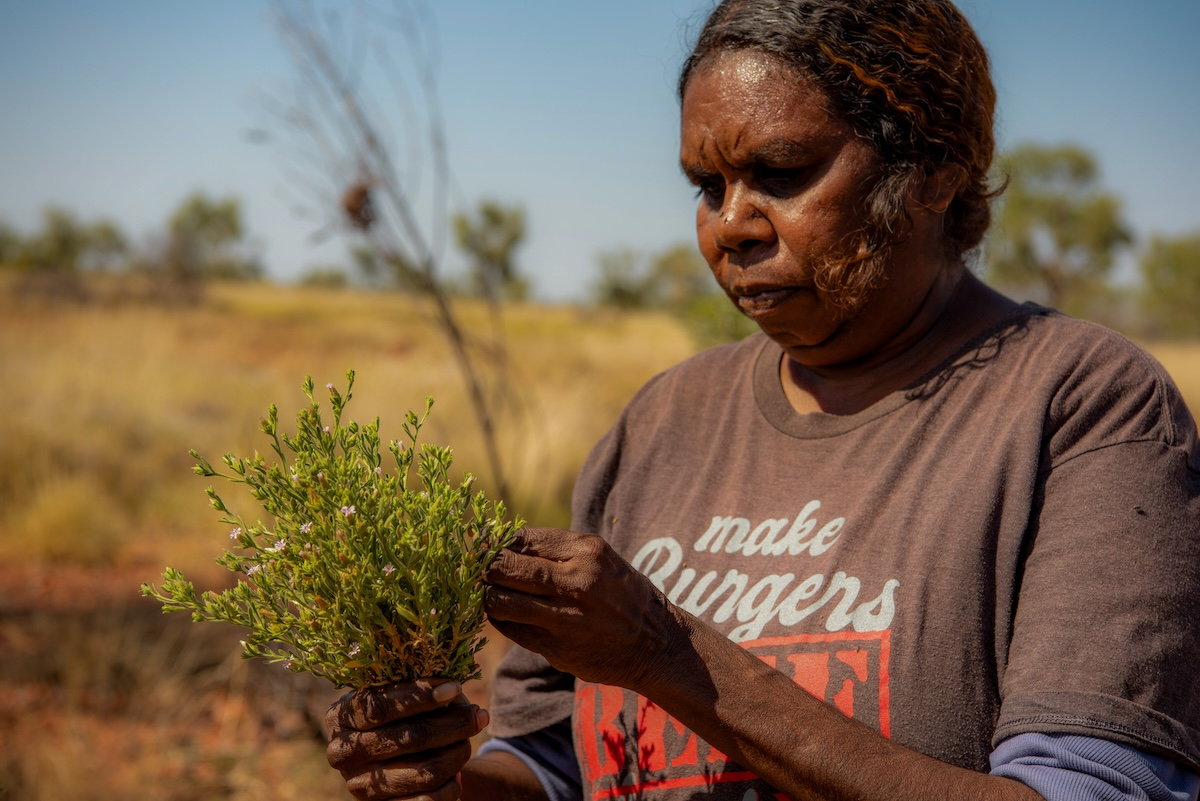
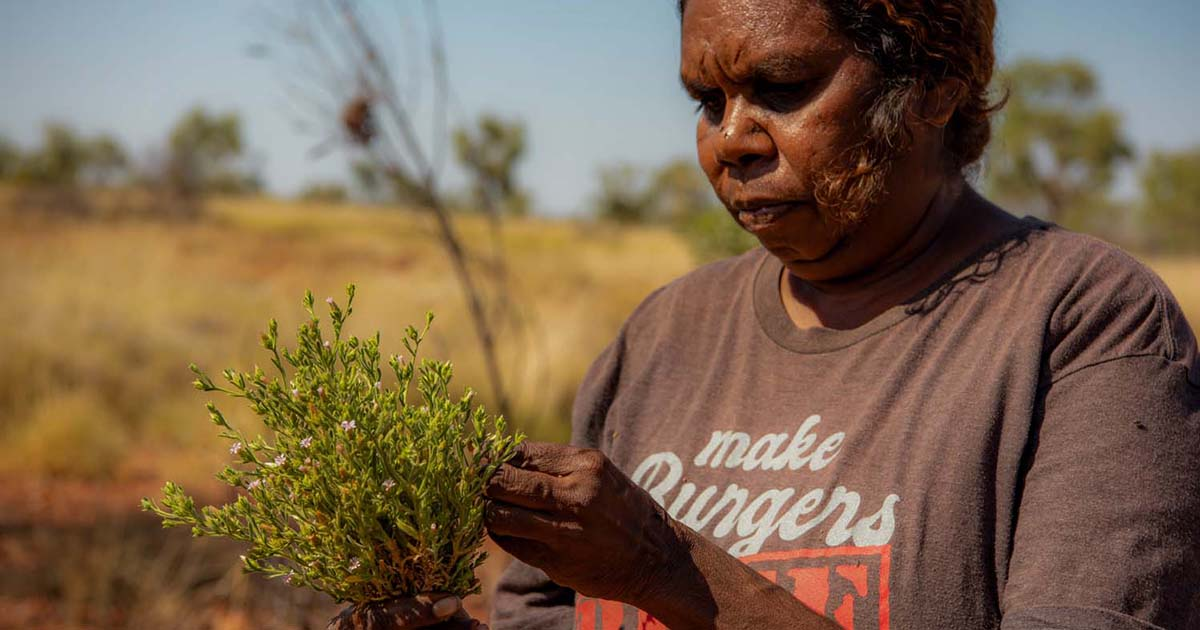
compress key images and standardise og:image tag paths

diff --git a/test_data/gurindji_bush_tucker/data/index.html b/test_data/gurindji_bush_tucker/data/index.html
@@ -5,8 +5,8 @@
     <meta property="og:type" content="website" />
     <meta property="og:title" content="Bush Tucker" />
     <meta property="og:description" content="Gurindji bush tucker" />
-    <meta property="og:image" content="http://bush-tucker.ngumpin.org.au/files/images/07_Kinyjirrka_IMG_6296_PS.jpg" />
-    <meta property="og:image:secure_url" content="https://bush-tucker.ngumpin.org.au/files/images/07_Kinyjirrka_IMG_6296_PS.jpg" />
+    <meta property="og:image" content="http://bush-tucker.ngumpin.org.au/files/keyimage.jpg" />
+    <meta property="og:image:secure_url" content="https://bush-tucker.ngumpin.org.au/files/keyimage.jpg" />
     <meta property="og:image:width" content="1200" />
     <meta property="og:image:height" content="630" />
     <meta http-equiv="refresh" content="0;url=ro-crate-preview.html" />

diff --git a/test_data/gurindji_bush_tucker/data/ro-crate-preview.html b/test_data/gurindji_bush_tucker/data/ro-crate-preview.html
@@ -5,8 +5,8 @@
     <meta property="og:type" content="website" />
     <meta property="og:title" content="Bush Tucker" />
     <meta property="og:description" content="Gurindji bush tucker" />
-    <meta property="og:image" content="http://bush-tucker.ngumpin.org.au/files/images/07_Kinyjirrka_IMG_6296_PS.jpg" />
-    <meta property="og:image:secure_url" content="https://bush-tucker.ngumpin.org.au/files/images/07_Kinyjirrka_IMG_6296_PS.jpg" />
+    <meta property="og:image" content="http://bush-tucker.ngumpin.org.au/files/keyimage.jpg" />
+    <meta property="og:image:secure_url" content="https://bush-tucker.ngumpin.org.au/files/keyimage.jpg" />
     <meta property="og:image:width" content="1200" />
     <meta property="og:image:height" content="630" />
     <meta charset="utf-8">

diff --git a/test_data/gurindji_jurlaka/data/index.html b/test_data/gurindji_jurlaka/data/index.html
@@ -5,8 +5,8 @@
     <meta property="og:type" content="website" />
     <meta property="og:title" content="Jurlaka" />
     <meta property="og:description" content="Gurindji birds - Jurlaka" />
-    <meta property="og:image" content="http://jurlaka.ngumpin.org.au/files/images/Jamut_BD.jpg" />
-    <meta property="og:image:secure_url" content="https://jurlaka.ngumpin.org.au/files/images/Jamut_BD.jpg" />
+    <meta property="og:image" content="http://jurlaka.ngumpin.org.au/files/keyimage.jpg" />
+    <meta property="og:image:secure_url" content="https://jurlaka.ngumpin.org.au/files/keyimage.jpg" />
     <meta property="og:image:width" content="1200" />
     <meta property="og:image:height" content="630" />
     <meta http-equiv="refresh" content="0;url=ro-crate-preview.html" />

diff --git a/test_data/gurindji_yawu/data/index.html b/test_data/gurindji_yawu/data/index.html
@@ -5,8 +5,8 @@
     <meta property="og:type" content="website" />
     <meta property="og:title" content="Yawu" />
     <meta property="og:description" content="Gurindji fish - Yawu" />
-    <meta property="og:image" content="http://yawu.ngumpin.org.au/files/images/manyirrkila_DM.jpg" />
-    <meta property="og:image:secure_url" content="https://yawu.ngumpin.org.au/files/images/manyirrkila_DM.jpg" />
+    <meta property="og:image" content="http://yawu.ngumpin.org.au/files/keyimage.jpg" />
+    <meta property="og:image:secure_url" content="https://yawu.ngumpin.org.au/files/keyimage.jpg" />
     <meta property="og:image:width" content="1200" />
     <meta property="og:image:height" content="630" />
     <meta http-equiv="refresh" content="0;url=ro-crate-preview.html" />

diff --git a/test_data/gurindji_jurlaka/data/ro-crate-preview.html b/test_data/gurindji_jurlaka/data/ro-crate-preview.html
@@ -5,8 +5,8 @@
     <meta property="og:type" content="website" />
     <meta property="og:title" content="Jurlaka" />
     <meta property="og:description" content="Gurindji birds - Jurlaka" />
-    <meta property="og:image" content="http://jurlaka.ngumpin.org.au/files/images/Jamut_BD.jpg" />
-    <meta property="og:image:secure_url" content="https://jurlaka.ngumpin.org.au/files/images/Jamut_BD.jpg" />
+    <meta property="og:image" content="http://jurlaka.ngumpin.org.au/files/keyimage.jpg" />
+    <meta property="og:image:secure_url" content="https://jurlaka.ngumpin.org.au/files/keyimage.jpg" />
     <meta property="og:image:width" content="1200" />
     <meta property="og:image:height" content="630" />
     <meta charset="utf-8">

diff --git a/test_data/gurindji_yawu/data/ro-crate-preview.html b/test_data/gurindji_yawu/data/ro-crate-preview.html
@@ -5,8 +5,8 @@
     <meta property="og:type" content="website" />
     <meta property="og:title" content="Yawu" />
     <meta property="og:description" content="Gurindji fish - Yawu" />
-    <meta property="og:image" content="http://yawu.ngumpin.org.au/files/images/manyirrkila_DM.jpg" />
-    <meta property="og:image:secure_url" content="https://yawu.ngumpin.org.au/files/images/keyimage.jpg" />
+    <meta property="og:image" content="http://yawu.ngumpin.org.au/files/keyimage.jpg" />
+    <meta property="og:image:secure_url" content="https://yawu.ngumpin.org.au/files/keyimage.jpg" />
     <meta property="og:image:width" content="1200" />
     <meta property="og:image:height" content="630" />
     <meta charset="utf-8">
